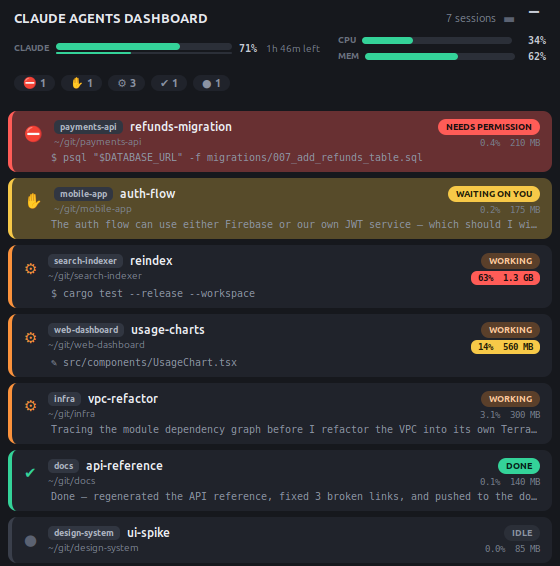
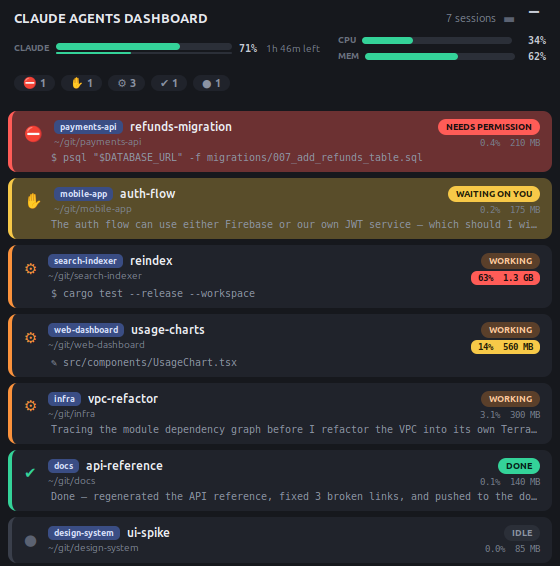
Recolor project badge to a muted indigo so it stands out
Swap the project chip from neutral grey to a muted indigo/blue: it now
reads as a distinct tag and pops off the row, but stays lower-saturation
than the vivid status badge at the row's end (and sits outside the warm
category palette) so it doesn't compete for attention. Screenshot updated.

diff --git a/agents_dashboard.py b/agents_dashboard.py
@@ -540,10 +540,13 @@ row.working           { border-left-color: #fb923c; }
 row.idle              { border-left-color: #3a3f4b; }
 
 .name                 { font-weight: 700; font-size: 12px; color: #eceef3; }
-/* small "which repo" tag in front of the session title (the repo folder name) */
+/* small "which repo" tag in front of the session title (the repo folder name).
+   A muted indigo/blue so it reads as a distinct tag and pops a bit off the row,
+   but stays lower-saturation than the status badge at the row's end (which uses
+   the vivid category colours) so it doesn't compete for attention. */
 .project              { font-size: 9px; font-weight: 800; letter-spacing: 0.3px;
                         padding: 1px 6px; border-radius: 5px;
-                        background-color: #313641; color: #aeb6c4; }
+                        background-color: #3a4d84; color: #d6e0fb; }
 .cwd                  { font-size: 10px; color: #828a99; }
 /* live activity - code-like (monospace) so it reads distinctly from the .cwd
    working path above it; expanding brightens it and drops it into a panel. */